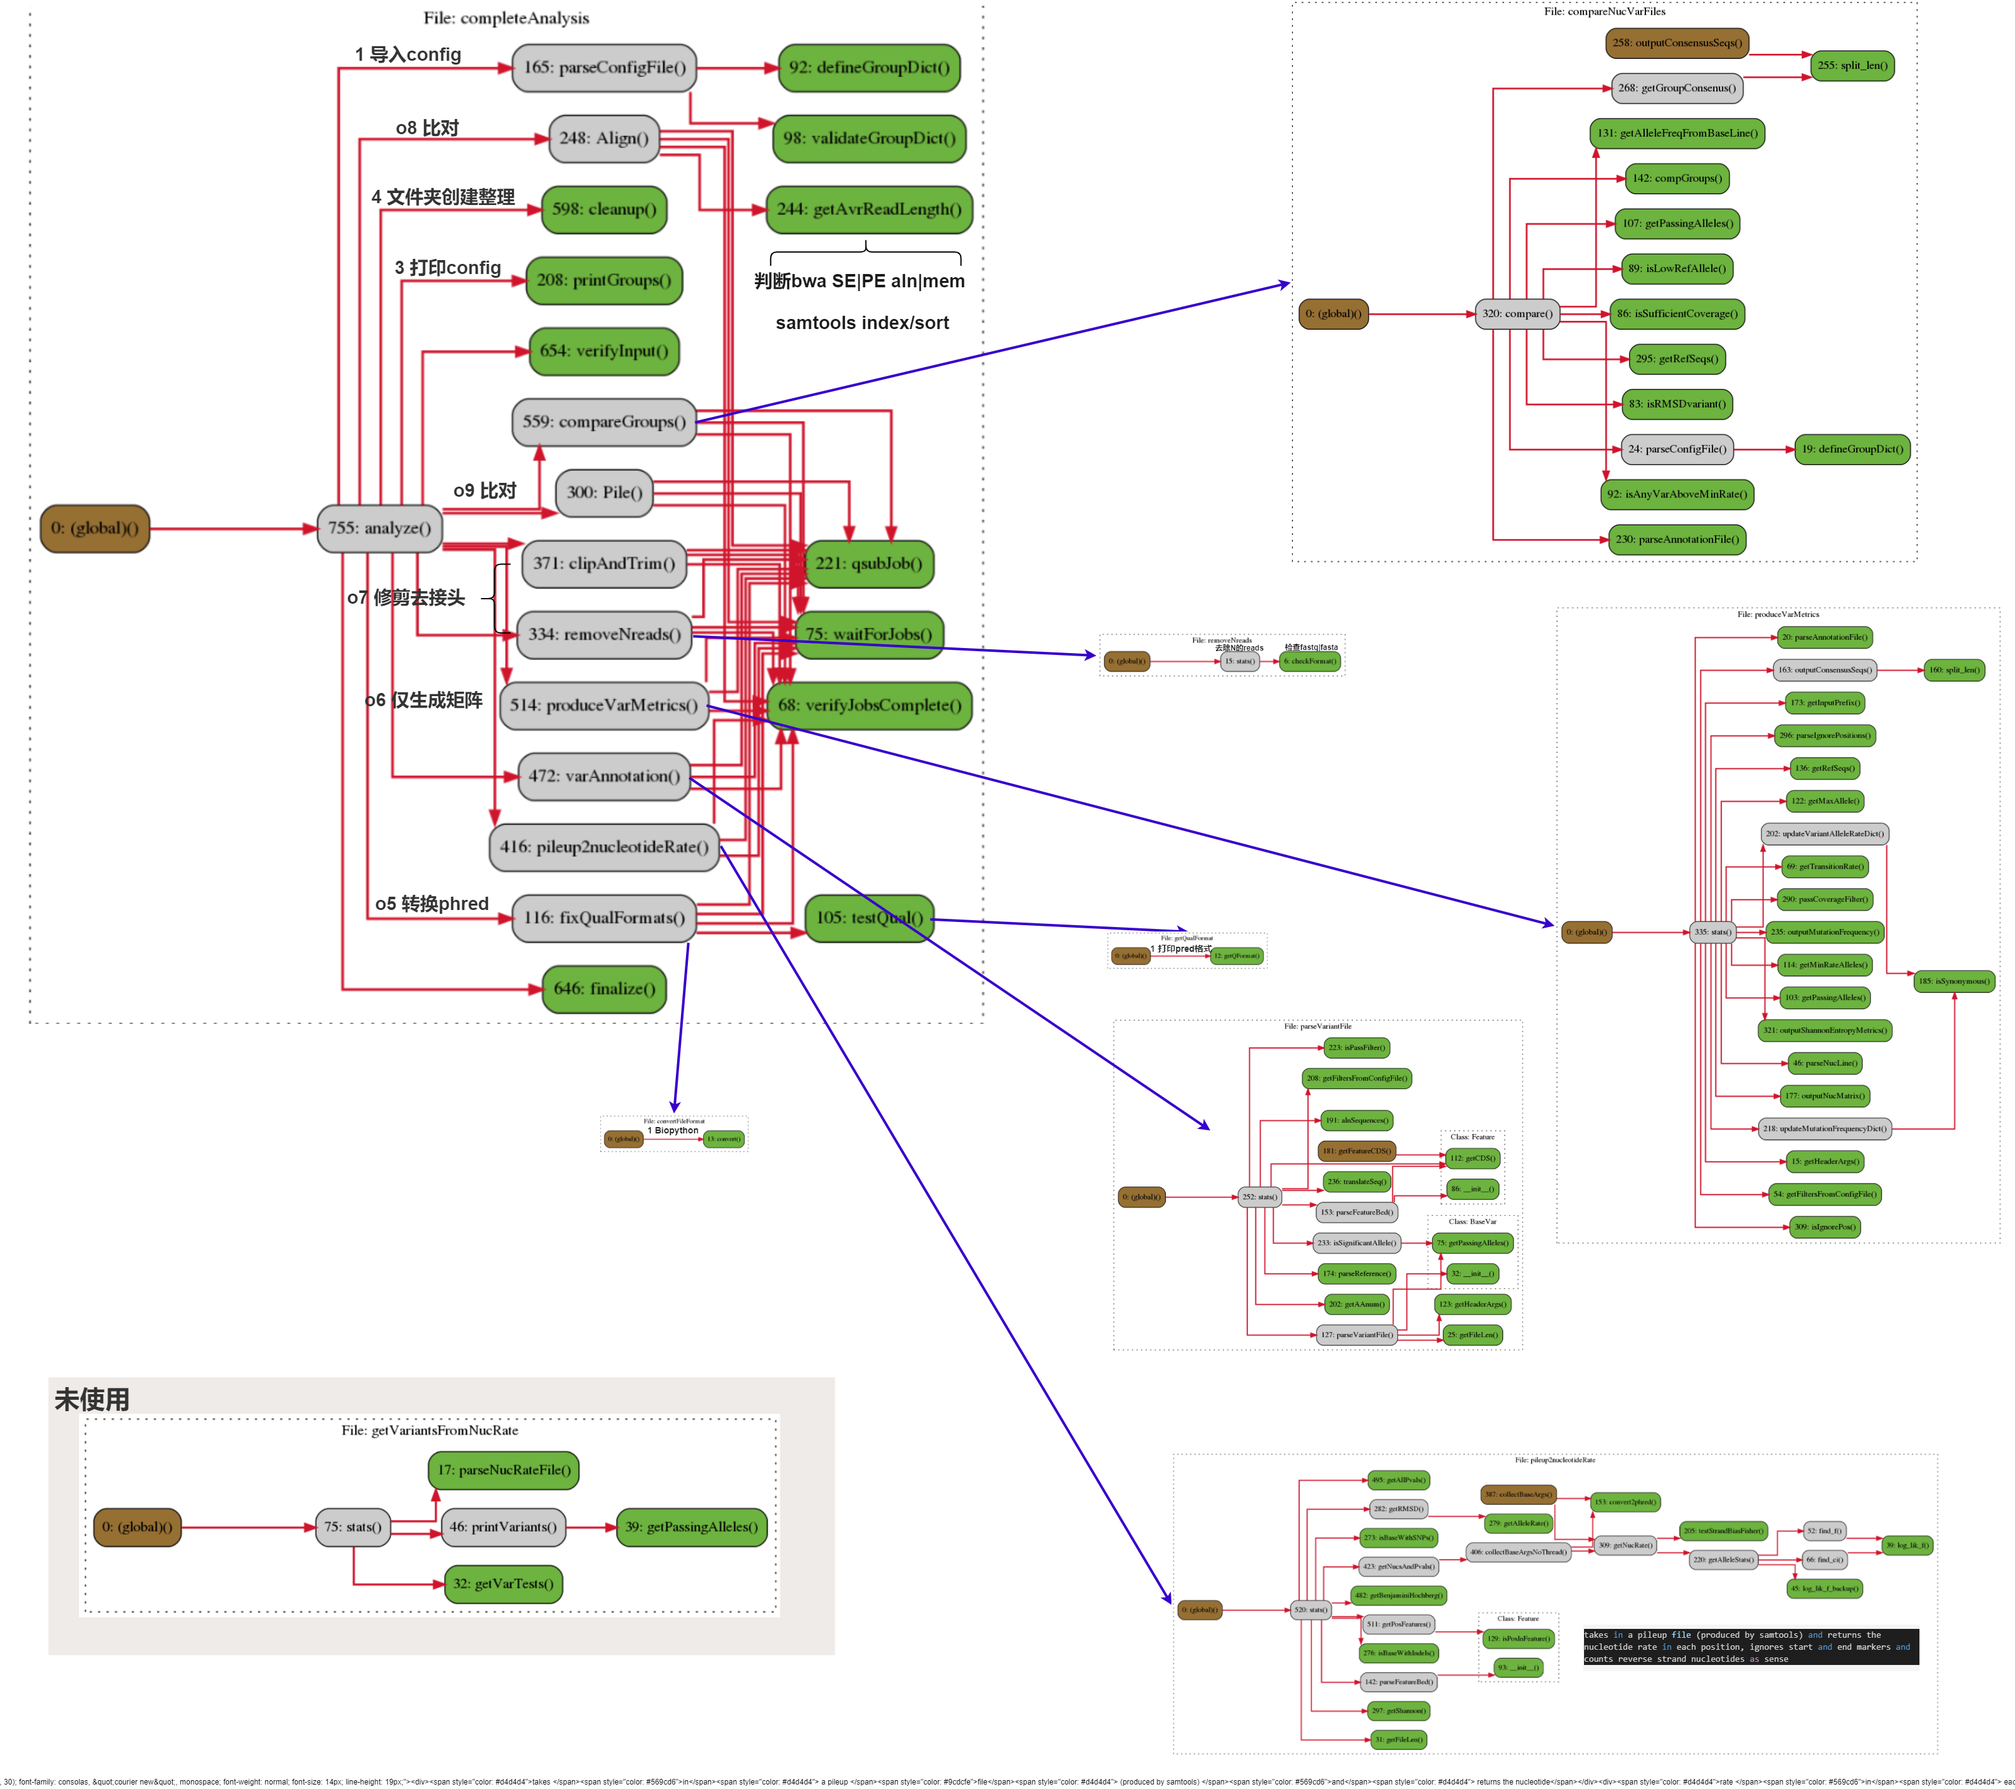
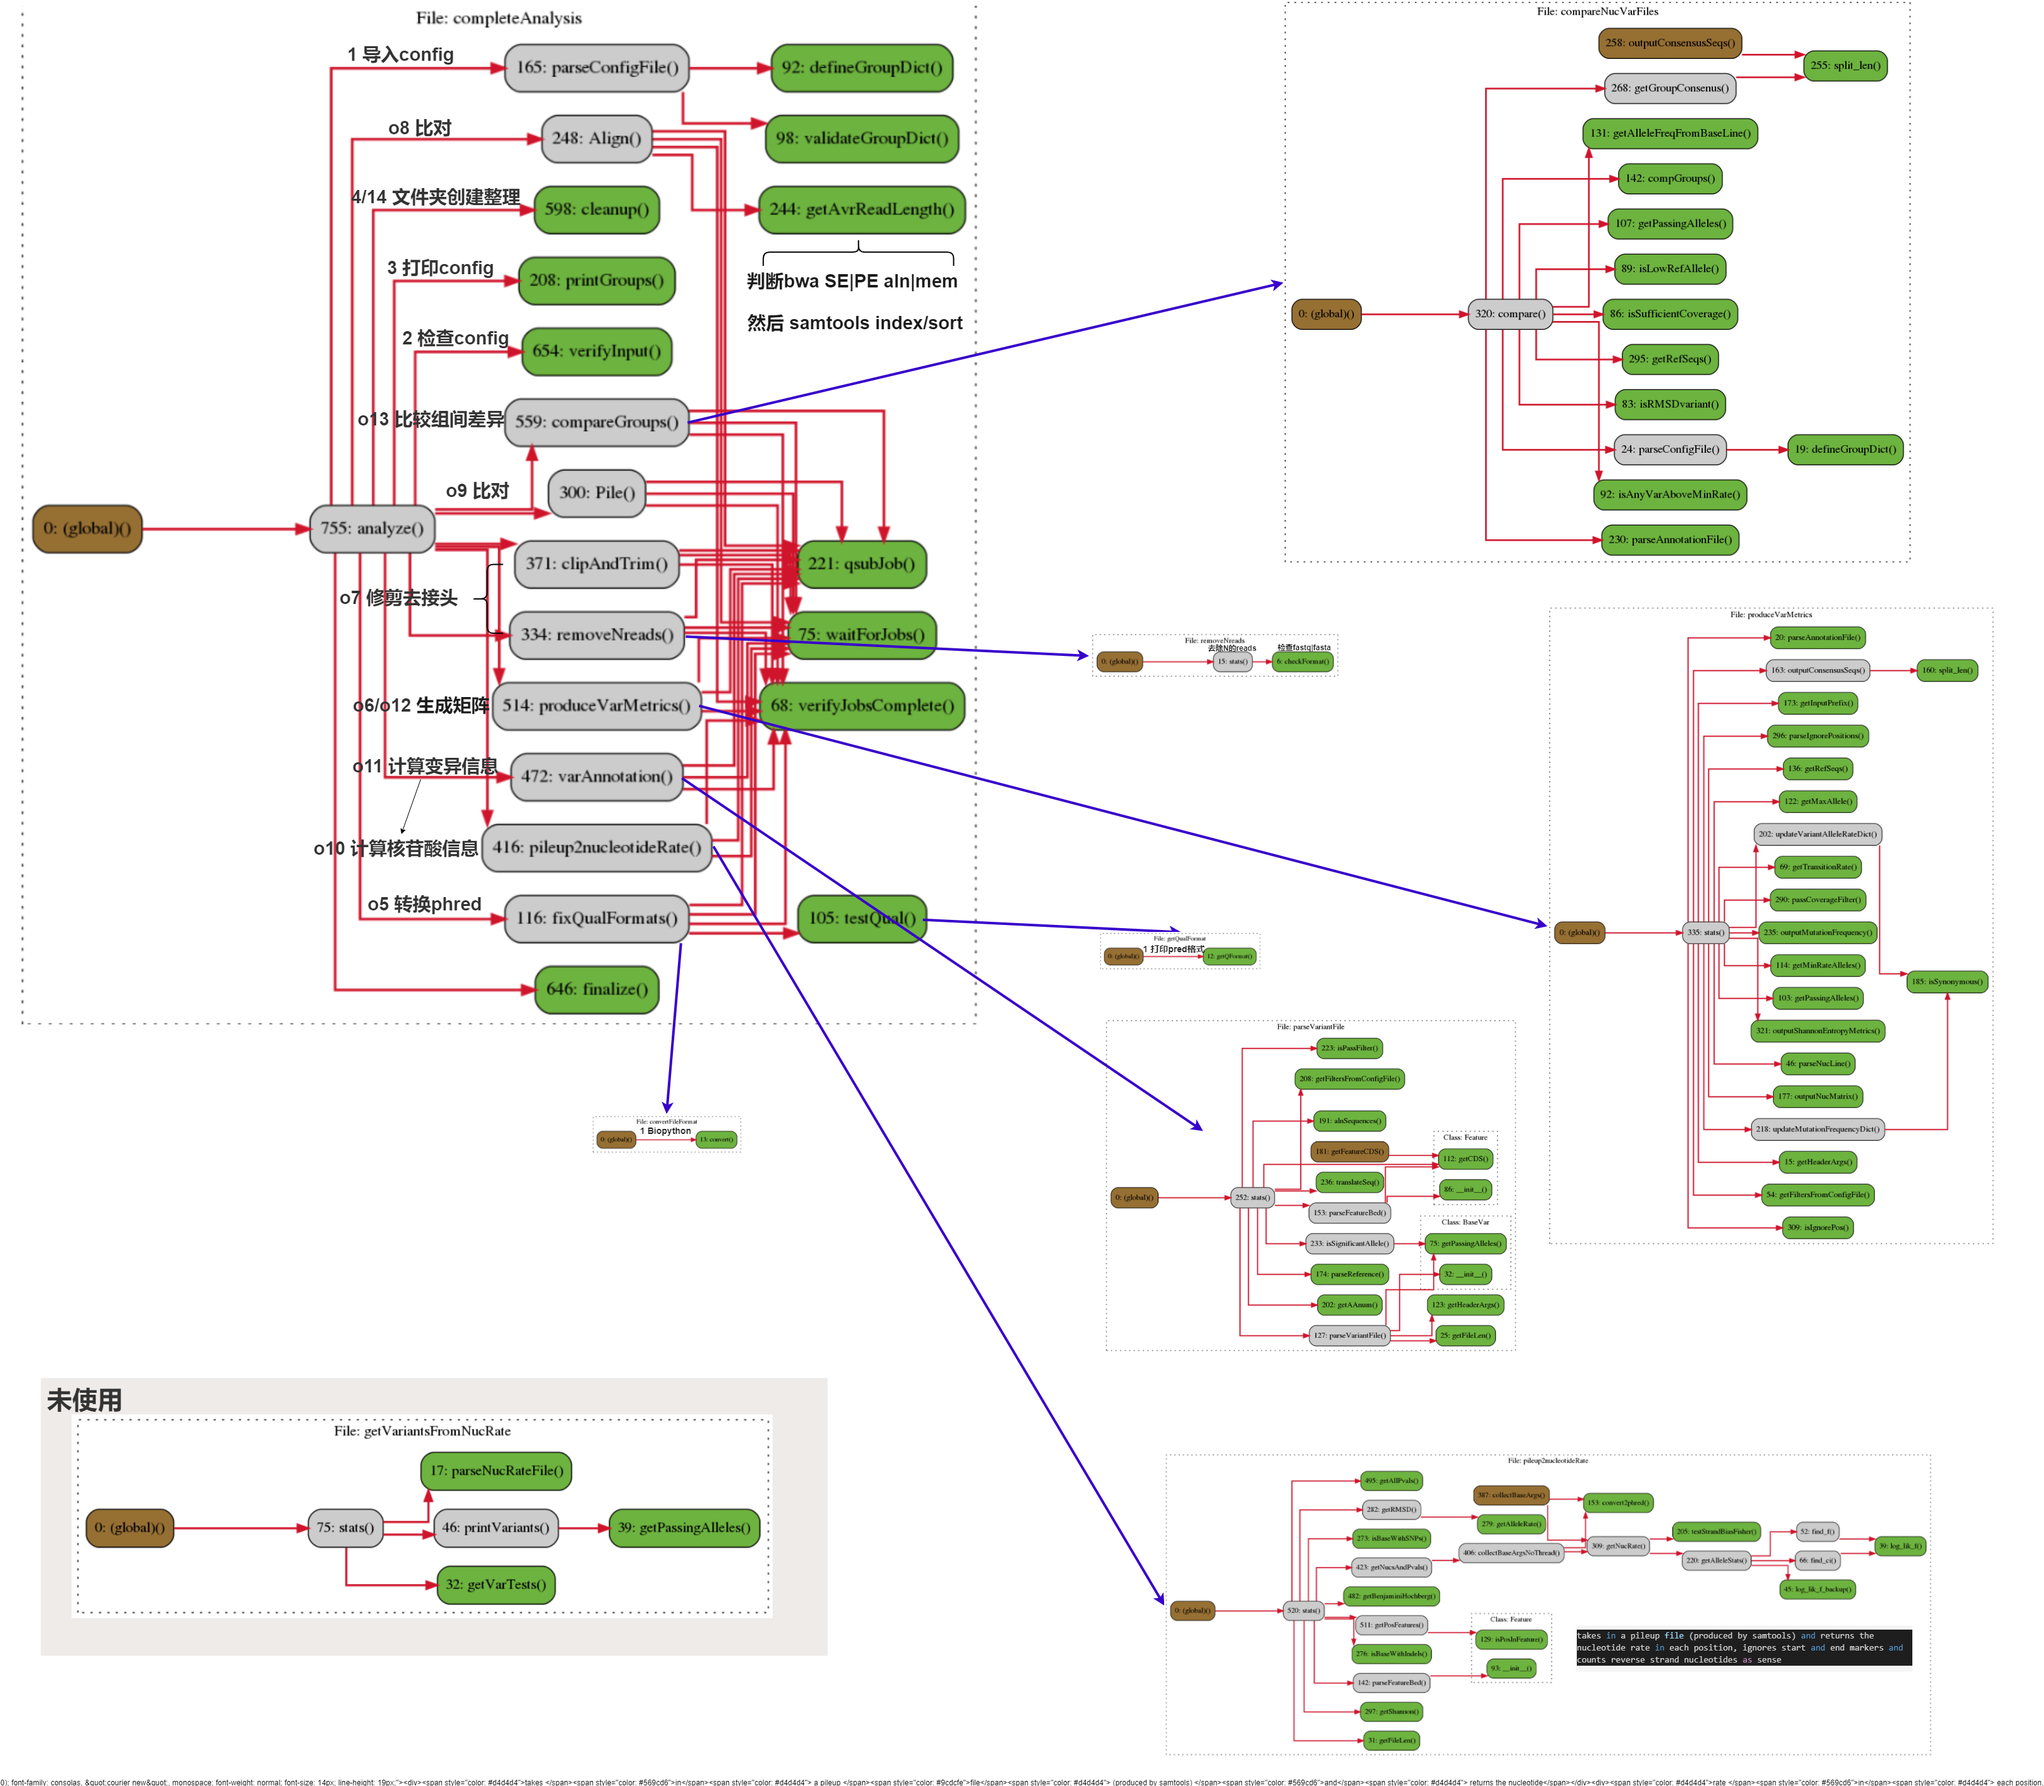
new_flowpic

diff --git a/completeAnalysis.py b/completeAnalysis.py
@@ -798,9 +798,11 @@ def analyze():
     QSUB = args.useQsub
     VERBOSE = args.verbose
     confFile = args.configFile
+    #TAG1读取输入
     groupDict,filters = parseConfigFile(confFile)
     
     # Verify Input
+    #TAG2验证输入
     verifyInput(groupDict)
     # FIXMEverifyInput don't have .rbwt file.
     # only include features if all the groups have a feature file in them
@@ -812,7 +814,7 @@ def analyze():
             break
     else:
         INCLUDE_FEATURES=True
-    
+    #TAG2打印分组情况
     printGroups(groupDict)
     
     # if there are paired end samples, disregard the remove N argument
@@ -822,21 +824,26 @@ def analyze():
                 print('VIVAN: There are paired-end samples in the run, will not remove N bases')
                 REMOVE_N_READS=False
     if CLEANUP_ONLY:
+        #TAG4文件夹创建整理
         cleanup(groupDict,WEBSERVER)
         return
     # if alignment is required, check the qualities of the input files
     if ALIGN_AND_PILE:
+        #TAG5转换phred
         groupDict = fixQualFormats(groupDict,QSUB,ILLUMINA_FORMAT,VERBOSE,LIGHT,QUEUE)
     # only produce the analysis metrics (consensus, matrix, metrics)
     if ONLY_METRICS:
+        #TAG6生成矩阵
         produceVarMetrics(groupDict,confFile, STRAND_BIAS,QSUB, VERBOSE,LIGHT,QUEUE)
         return
     
     # clip and trim the sequence files
     if CLIP_AND_TRIM:
         groupDict = clipAndTrim(groupDict, QSUB, VERBOSE,LIGHT,QUEUE)
+        #TAG7修剪去接头
         #N reade will be removed only if clip and trim are also running
         if REMOVE_N_READS:
+            #TAG7修剪去接头
             removeNreads(groupDict, QSUB,VERBOSE,LIGHT,QUEUE)
             # now change all the names of the sample files
 
@@ -853,7 +860,9 @@ def analyze():
     # Either perform alignment and pileup or only pileup                
     if ALIGN_AND_PILE:
         print("RRRRRRRRR whatwhawtawhatwahwatwwahtawhawtawhatwhawtawhawtawhawt")
+        #TAG8比对 bwa
         Align(groupDict,NUM_O_GAPS, QSUB, ILLUMINA_FORMAT, VERBOSE, LIGHT, QUEUE)
+        #TAG9比对samtools mpileup
         Pile(groupDict, QSUB, ILLUMINA_FORMAT, VERBOSE, LIGHT, QUEUE)
     elif ONLY_PILEUP:
         print("whatwhawtawhatwahwatwwahtawhawtawhatwhawtawhawtawhawt")
@@ -862,22 +871,26 @@ def analyze():
         print("++++++++++++++++++++++++++++++++++++++++++++++++++++++++++++++++++++++")
     # run the pileup 2 nucleotide rate script (pileup2nucleotideRate.py)
     if not SKIP_PILE2NUC:
+        #TAG10计算核苷酸信息Nucleotide Rate
         pileup2nucleotideRate(groupDict, filters,QSUB,REMOVE_N_READS,VERBOSE,LIGHT,QUEUE,SIZE_LIMIT)
     # run the variant annotation script (parseVariantFile.py)
     if not SKIP_VARANNO: 
+        #TAG11计算变异情况variant
         varAnnotation(groupDict, confFile,STRAND_BIAS,QSUB,VERBOSE,LIGHT,QUEUE)
     
     # produce run metrics
+    #TAG12生成矩阵
     produceVarMetrics(groupDict, confFile, STRAND_BIAS, QSUB, VERBOSE,LIGHT,QUEUE)
     
     # compare samples between and within groups
+    #TAG13比较组间差异
     compareGroups(confFile,STRAND_BIAS,QSUB,REMOVE_N_READS,INCLUDE_FEATURES,VERBOSE,LIGHT,QUEUE)
     print('Analysis done..(%s)\n'%(time.time()-startTime))
     summaryReport.append('Analysis done..(%s)\n'%(time.time()-startTime))
     
     summaryFile = open('summary.txt','w')
     summaryFile.write('\n'.join(summaryReport))
-    
+    #TAG14文件夹创建整理
     cleanup(groupDict,WEBSERVER)
     finalize()
     
